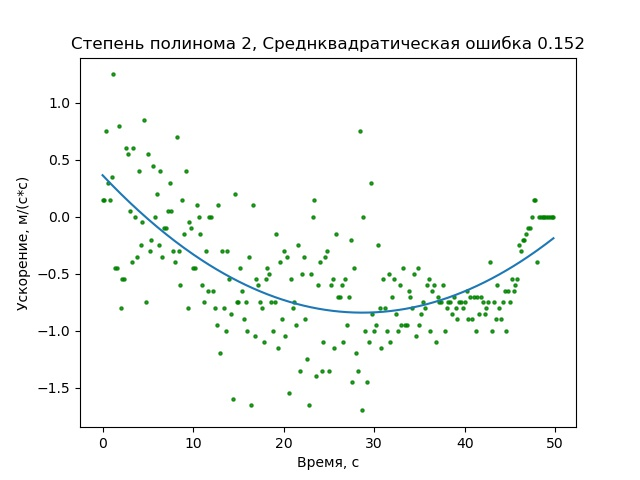
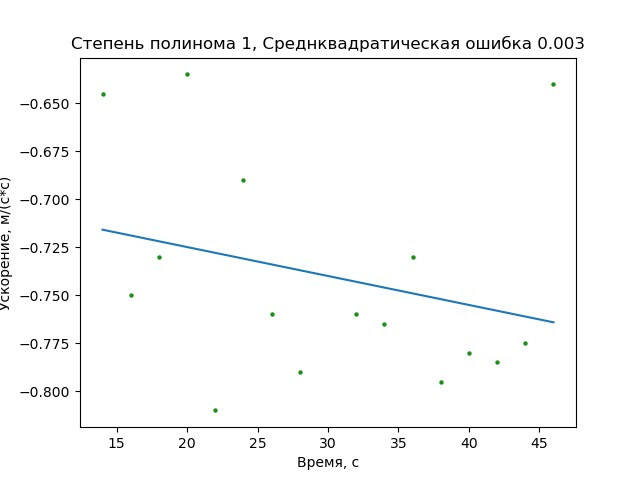
added std calcs

diff --git a/test.py b/test.py
@@ -5,6 +5,7 @@ import matplotlib.pyplot as plt
 from sklearn.linear_model import LinearRegression
 from sklearn.metrics import mean_squared_error as mse
 import numpy as np
+from utils.profile_processor import PreStartPoint
 
 file_name = '0063.data'
 file = ProfileReader('data/profileBM.txt')
@@ -14,7 +15,7 @@ dtfrm = file.widen_dfs()
 slope = file.calculate_slope()
 predicted = file._get_widened_df()
 #print(predicted)
-file = NovatelParser('temp/' + file_name)
+file = NovatelParser('temp/' + file_name, 2)
 arr = file.get_gprmc()
 arr = arr[arr['Время'] < 50.0]
 print(arr)
@@ -40,14 +41,37 @@ def slopes_in_main(arr, help):
 
 
 picet, slpe = slopes_in_main(arr, predicted)
-arr['Пикет'] = picet[:-1]
-arr['Уклон'] = slpe[:-1]
+arr['Пикет'] = picet#[:-1]
+arr['Уклон'] = slpe#[:-1]
 
-arr['dv_dt'] = arr['Скорость'].diff() / arr['Время'].diff()
+arr['dv'] = arr['Скорость'].diff()
+arr['dt'] = arr['Время'].diff()
+#arr['dv_dt'] = arr['Скорость'].diff() / arr['Время'].diff()
+arr['dv_dt'] = arr['dv'] / arr['dt']
 
-arr.fillna(arr['dv_dt'][1], inplace=True)
+arr.fillna(arr.iloc[1, -1], inplace=True)
+arr = arr[arr.dv_dt < 0]
+dv_dt_std = arr.dv_dt.std()
+dv_dt_mean = arr.dv_dt.mean()
+arr = arr[(arr.dv_dt > dv_dt_mean - dv_dt_std) & (arr.dv_dt < dv_dt_mean + dv_dt_std)]
+lat, lon = arr['Широта'].to_numpy() * -1, arr['Долгота'].to_numpy() * -1
 
-print(arr.head(30))
+coords_zipIT = iter(zip(lat, lon))
+first = next(coords_zipIT)
+distnces = []
+try:
+    while coords_zipIT:
+        second = next(coords_zipIT)
+        coord = PreStartPoint.geodistance(first, second)
+        distnces.append(coord)
+        first = second
+except StopIteration:
+    pass
+
+distnces.insert(0, 0)
+arr['distance'] = distnces
+
+print(arr)
 
 
 def generate_degrees(source_data, degree):
@@ -74,17 +98,18 @@ def train_polynomial(degree, data):
     plt.close()
 
 
-train_polynomial(2, arr)
+train_polynomial(1, arr)
 
 arr['Wko'] = (25 * 9.81 * arr['Уклон'] + (25 * (1 + 1.06) * arr.dv_dt)) / 25
 
-plt.plot(arr['Время'], arr['Скорость'])
+plt.scatter(arr['Время'], arr['Скорость'])
 plt.xlabel('Время, с')
 plt.ylabel('Cкорость, м/с')
 plt.title('Зависимость скорости от времени')
 plt.savefig('temp/curves/' + file_name.split('.')[0] + 'v(t)' + '.jpg')
 
 arr.to_excel('test_arr_64.xlsx')
+
 
 # Index(['Тег данных', 'Время, с', 'Корректность данных', 'Широта',
 #        'Ориентация широты', 'Долгота', 'Ориентация долготы', 'Скорость, м/с',

diff --git a/main.py b/main.py
@@ -15,8 +15,9 @@ class NovatelParser:
     informative = True
     rus = True
 
-    def __init__(self, file):
+    def __init__(self, file, freq):
         self.file = file
+        self.freq = freq
 
     def __get_data(self, tag, header):
         _data = []
@@ -26,7 +27,7 @@ class NovatelParser:
                     _data.append(line.strip().split(','))
         _data_arr = np.array(_data)
         _data.clear()
-        return self.get_table(_data_arr, header)
+        return self.get_table(_data_arr, self.freq, header)
 
     def get_gprmc(self):
         return self.__get_data('$GPRMC', 'gprmc')
@@ -44,7 +45,7 @@ class NovatelParser:
         except FileNotFoundError:
             missing_file(rus=self.rus)
 
-    def get_table(self, array2d, data_header=None):
+    def get_table(self, array2d, freq, data_header=None):
         headers = self.headers_loader()
 
         if data_header == 'gprmc':
@@ -55,6 +56,8 @@ class NovatelParser:
             df['Speed'] = self.knots_to_mps(df['Speed'])
             df['Latitude'] = self.coord_processing(df['Latitude'], df['Lat_dir'])
             df['Longitude'] = self.coord_processing(df['Longitude'], df['Long_dir'])
+            if freq != 0:
+                df = df[df['utc'] % freq == 0]
 
             if self.rus:
                 trans_dict = {tag[0]: tag[1] for tag in zip(headers['gprmc'], headers['gprmc_rus'])}
@@ -97,7 +100,7 @@ class NovatelParser:
         return decimal_degrees(*dms(coord, direction))
 
 
-file = NovatelParser('temp/0063.data')
-arr = file.get_gprmc()
+#file = NovatelParser('temp/0063.data')
+#arr = file.get_gprmc()
 #arr.to_excel('test_arr_64.xlsx')
 #print(arr)
